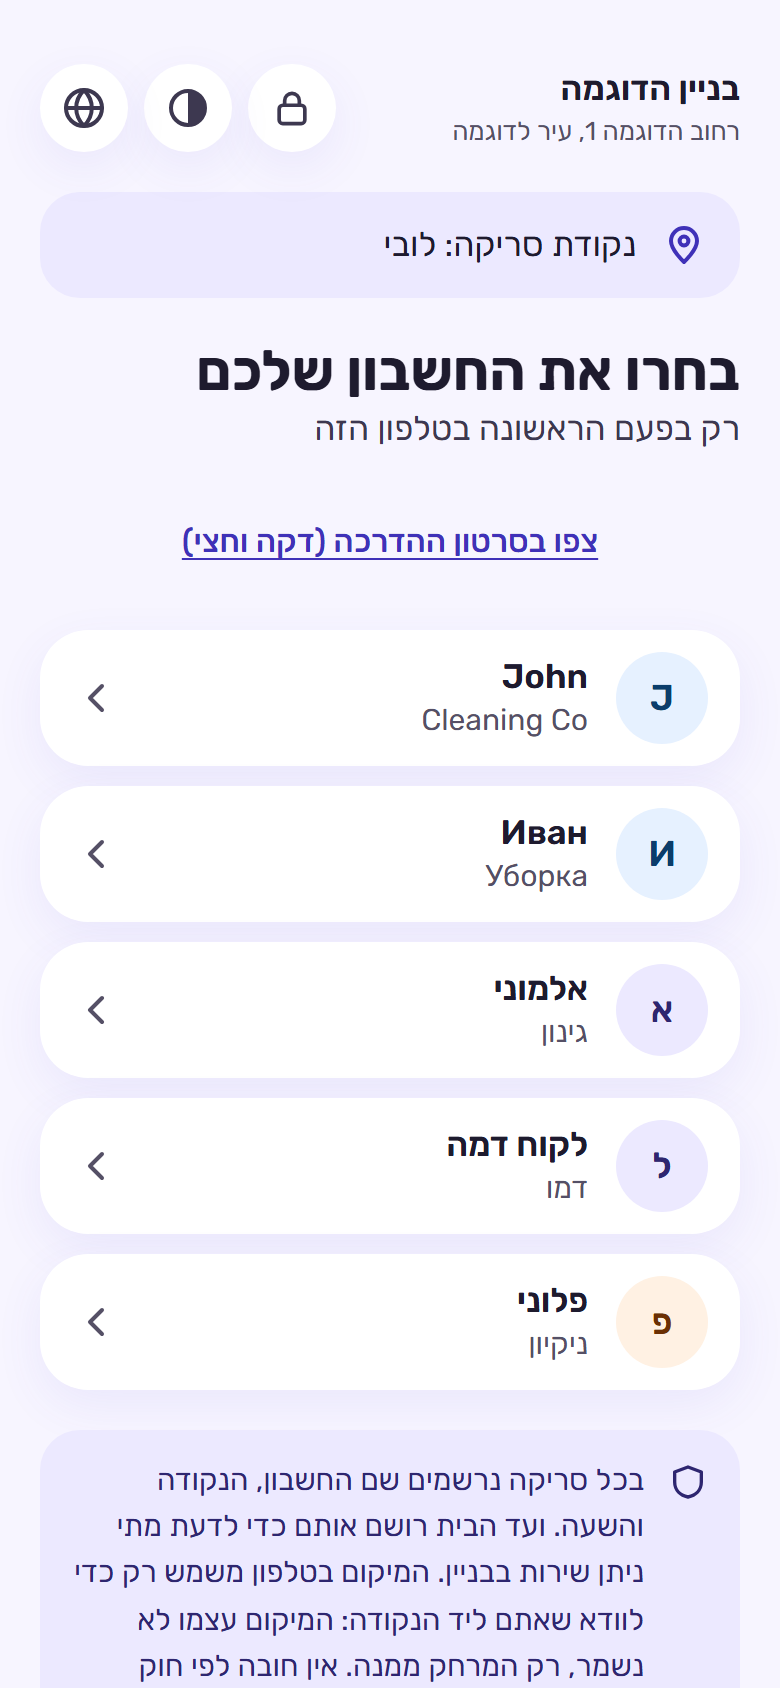
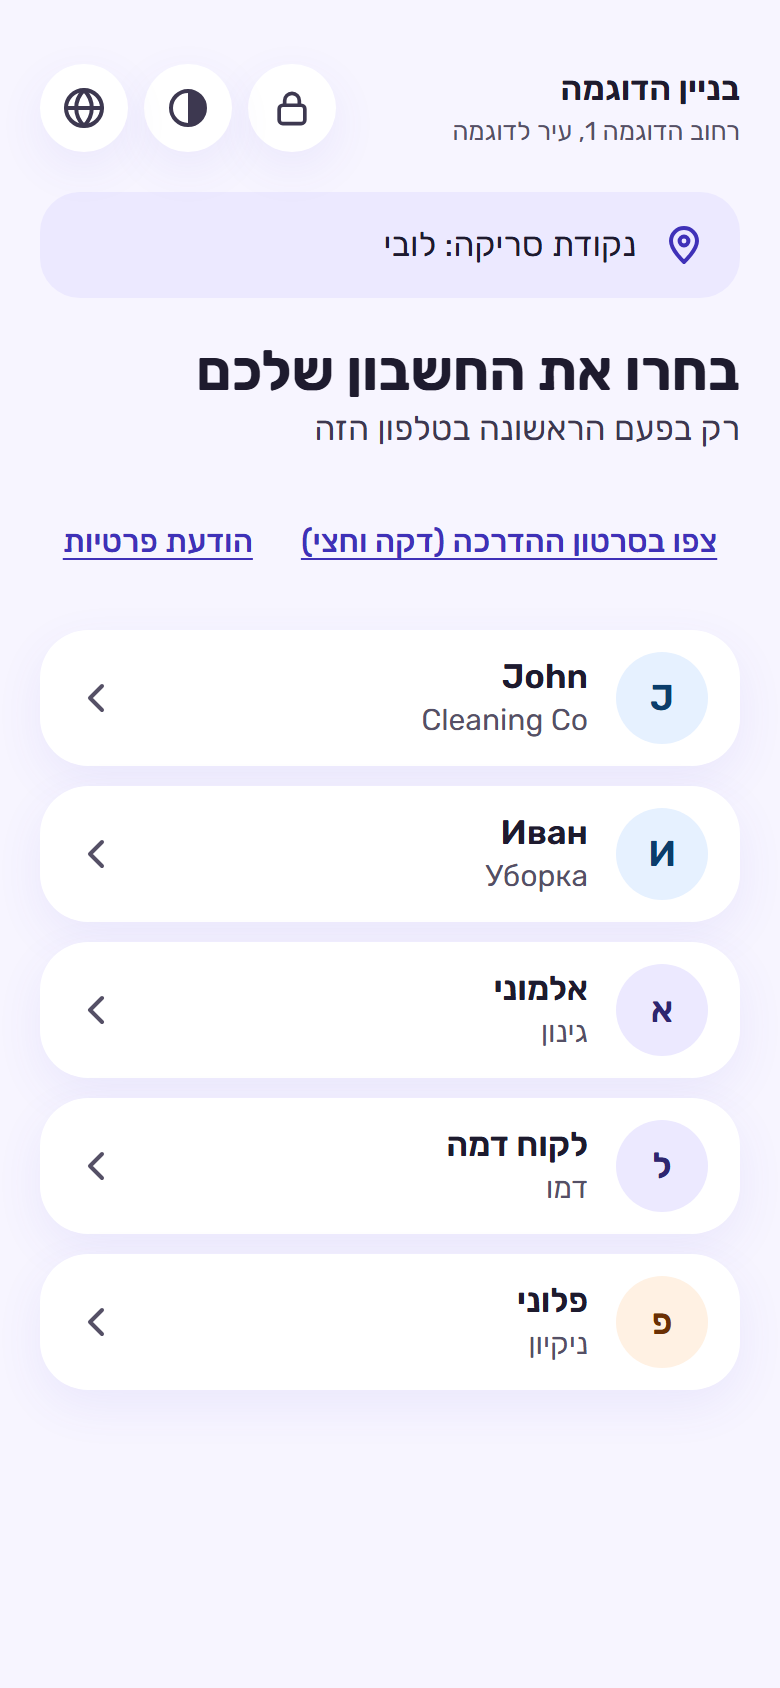
docs: the README pictures show the apps of master (#373)
🟢 One README picture and the two texts that describe it. No code, no
`.github/`, no rule.

## What and why

The README pictures were last taken on 26/10/2026 (#340), and the
sign-in picture again on 27/10/2026 (#360). On 28/10/2026 #371 changed
the provider app's sign-in list (privacy topic decision D20): the tinted
privacy note under the accounts is gone, and a "privacy notice" button
beside the tutorial link, above the accounts, opens the same short
notice in a sheet. The pictures are taken again from master at 64a147b
with `npm run screenshots` (the fake sample data only); only the sign-in
picture changed for a real reason.

Before: raw link at 64a147b ("master"). After: raw link on this branch.
Open the pair in the Files tab (the image diff) to compare.

| Picture | What changed visibly | Size (before -> after) |
|---|---|---|
| `provider-phone-sign-in.png` | The "privacy notice" button ("הודעת
פרטיות") beside the tutorial link, above the accounts; the privacy note
under the five accounts is gone, so the list ends with empty space | 126
KB -> 102 KB |
| `provider-phone-check-in.png` | Only the time and the date of the run
(not committed) | 68 KB, unchanged |
| `provider-phone-saved-offline.png` | Only the time of the run (not
committed) | 75 KB, unchanged |
| `committee-phone-home.png`, `committee-computer-home.png` | Only the
dates, the day bars' labels and one avatar's color (it follows the
sample ids of each run) (not committed) | 112 KB and 98 KB, unchanged |
[…]

diff --git a/README.md b/README.md
@@ -11,7 +11,7 @@ It is free and open source (MIT). Any building committee can install its own cop
 
 | Provider app: pick your account (first time on a phone) | Provider app: the check-in is recorded | Committee app on a phone: the points |
 |:---:|:---:|:---:|
-| <img src="docs/screenshots/provider-phone-sign-in.png" width="220" alt="The provider app on a phone, opened by a scan. A title that asks to choose the account, five accounts to choose from, in Hebrew, and a note that says what a scan records and that only the distance from the point is kept, not the position."> | <img src="docs/screenshots/provider-phone-check-in.png" width="220" alt="The provider app after signing in. A green check mark and a message that the attendance was recorded, with the point, the time and the provider."> | <img src="docs/screenshots/committee-phone-points.png" width="220" alt="The committee app on a phone, the Points tab. A list of scan points under a button that adds one, each with one button of three dots that holds its actions."> |
+| <img src="docs/screenshots/provider-phone-sign-in.png" width="220" alt="The provider app on a phone, opened by a scan. A title that asks to choose the account, a link to the tutorial video beside a privacy notice button, and five accounts to choose from, in Hebrew."> | <img src="docs/screenshots/provider-phone-check-in.png" width="220" alt="The provider app after signing in. A green check mark and a message that the attendance was recorded, with the point, the time and the provider."> | <img src="docs/screenshots/committee-phone-points.png" width="220" alt="The committee app on a phone, the Points tab. A list of scan points under a button that adds one, each with one button of three dots that holds its actions."> |
 
 <p align="center">
   <img src="docs/screenshots/committee-computer-history.png" width="720" alt="The committee app on a computer, the History tab. Filters on top (from and to dates, each with a calendar button, then the point, the provider and the type), and the visits grouped by day, each with its point, provider and time.">

diff --git a/docs/screenshots/README.md b/docs/screenshots/README.md
@@ -14,7 +14,7 @@ end-to-end tests use.
 
 | Image | What it shows |
 |---|---|
-| `provider-phone-sign-in.png` | The provider app on a phone: a scan link opens the list of accounts to pick from ("choose your account"), with the committee's entry as a lock in the top bar beside the language and theme buttons, the link to the tutorial video ("watch the tutorial video (a minute and a half)") above the list and the privacy note on what a scan records below it (the note is cut by the bottom of the screen, as it is on a phone before the person scrolls) |
+| `provider-phone-sign-in.png` | The provider app on a phone: a scan link opens the list of accounts to pick from ("choose your account"), with the committee's entry as a lock in the top bar beside the language and theme buttons, and above the list the link to the tutorial video ("watch the tutorial video (a minute and a half)") beside the "privacy notice" button, which opens the short notice in a sheet |
 | `provider-phone-check-in.png` | The same app after signing in: the check-in is recorded |
 | `provider-phone-saved-offline.png` | The same app with no network: the visit is kept on the phone and is sent by itself later |
 | `committee-phone-home.png` | The committee app on a phone: the Home screen, the summary card of the week (the screen that opens first) |
